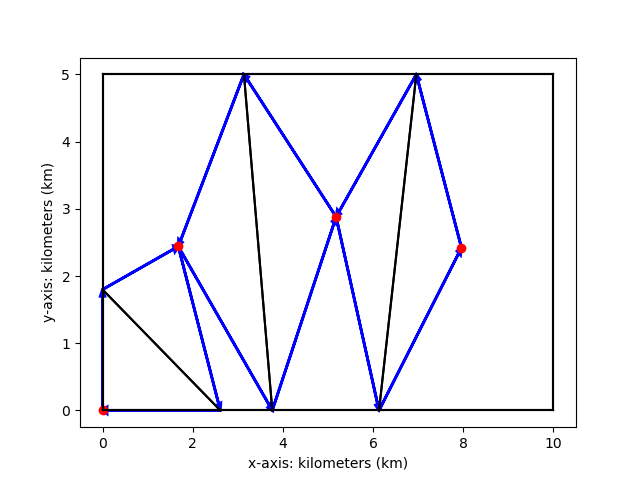
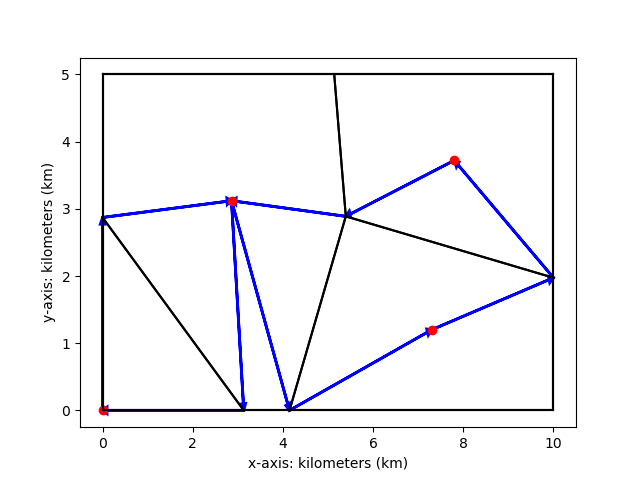
Tour Contruction
* Fixed the assembly of the tour.

diff --git a/Main/tourFn.py b/Main/tourFn.py
@@ -72,7 +72,7 @@ def finalPath(start, pathArr, singLvec, aMx):
             aMx[:,np.logical_not(singLvec)] = 0
             aMx[np.logical_not(singLvec),:] = 0
             
-            # SET THE INDECES FALSE 
+            # SET THE INDEx FALSE 
             singLvec[idx] = 0
         
         ###########################################  
@@ -90,39 +90,77 @@ def finalPath(start, pathArr, singLvec, aMx):
     else:
 
         
+        
+        # CONSTRUCT A SINGLETON MATRIX
+        sMx = np.copy(aMx)
+        sMx[np.ix_(np.logical_not(singLvec),np.logical_not(singLvec))] = 0
+        
+        
+        
         # GIVE THE CORRECT INDECES FOR THE PATH
-        path = np.arange(nCS)[np.logical_not(np.array(singLvec))][path[:-1]].tolist()
+        path = np.arange(nCS)[np.logical_not(np.array(singLvec))][path]
         
-        # ITERATE THROUGH EACH ROW
-        for i,(row,isSingle) in enumerate(zip(aMx,singLvec)):
+        result = np.copy(path)
+        
+        for k in path:
             
-            # CHECK IF ROW IS A SINGLETON
-            if( isSingle ):
-                
-                # GET THE INDEX OF THE VERTEX THAT CONNECTS TO THIS SINGLETON
-                next_idx = np.where(row == 1)[0][0]
-                
-                # GET THE INDEX OF THE VERTEX FROM THE PATH
-                idx = np.where(path == next_idx)[0][0]
-                
-                # INSERT THE VERTEX INDEX TO THE PATH WHERE THE VERTEX IS ALREADY FOUND
-                path.insert(idx, next_idx)
-                # INSERT THE SINGLETON INDEX INBETWEEN THE VERTEX INDECES 
-                path.insert(idx+1 , i)
-                
-                
-        result = path
-        
-        # MAKE SURE THAT THE FIRST ELEM IN THE PATH IS THE START CS ,
-        # WHICH SHOULD HAVE A VALUE OF 0
-        while not(result[0] == 0):
-            # REMOVE THE FIRST ELEMENT, ADD IT TO THE END
-            result.append(result.pop(0))
-        
-        # ADD THE FIRST ELEMENT TO THE END 
-        result.append(result[0])
+            i = k 
+            chain = np.array([])
             
+            row = sMx[i,:]
+            
+            # CHECK FOR LABELED SINGLETONS
+            while( not( sum(row) == 0 ) ):
+                
+                
+                idx = np.where(row == 1)[0][0]
 
+                chain = np.append(chain,idx)
+                
+                sMx[i,:] = 0
+                sMx[:,i] = 0
+                
+                i = idx
+                row = sMx[i,:]
+                
+                # IF THERE ARE NO MORE SINGLETONS
+                if( sum(row) == 0 ):
+                    
+                    # PATH HAS TWO CASES:
+                    # CASE I: THE FIRST ELEM IS ALSO AT THE END OF THE PATH
+                    # CASE II: THE OTHER ELEMS ONLY APPEAR ONCE
+                    # THUS, WE'LL TREAT THEM DIFFERENT
+                    
+                    
+                    p_idx = np.where(result == k)[0]
+                    
+                    # CASE I:THE FIRST ELEM IS ALSO AT THE END OF THE PATH
+                    if (len(p_idx) == 2):
+                        
+                        # USING THE FIRST MATCH
+                        # WE'LL ATTACH THE SINGLETONS TO THE LEFT
+                        # IN REVERSE
+                        
+                        
+                        result = np.insert( result , p_idx[0] ,chain[::-1] )
+                    
+                        # GET THE SECOND APPERANCE 
+                        p_idx = np.where(result == k)[0]
+                        result = np.insert( result , p_idx[-1] +1 ,chain )
+                        
+                    else:
+                        
+                        # CONTRUCT THE ARRAY THAT WE'LL BE INSERTING
+                        
+                        
+
+                        arr = np.append(chain,np.append(np.flipud(chain[:-1]),k))
+                        
+                        result = np.insert( result , p_idx[0] + 1 , arr)
+
+                        
+                        
+                    
 
     print(result)
 
@@ -443,15 +481,45 @@ if __name__ == '__main__':
     
     
 
-    adjMatrix = np.array([[0. ,0. ,0. ,1. ,0. ,1.],
-                          [0. ,0. ,1. ,1. ,1. ,0.],
-                          [0. ,1. ,0. ,0. ,1. ,0.],
-                          [1. ,1. ,0. ,0. ,1. ,1.],
-                          [0. ,1. ,1. ,1. ,0. ,1.],
-                          [1. ,0. ,0. ,1. ,1. ,0.]])
+    # adjMatrix = np.array([[0. ,0. ,0. ,1. ,0. ,1.],
+    #                       [0. ,0. ,1. ,1. ,1. ,0.],
+    #                       [0. ,1. ,0. ,0. ,1. ,0.],
+    #                       [1. ,1. ,0. ,0. ,1. ,1.],
+    #                       [0. ,1. ,1. ,1. ,0. ,1.],
+    #                       [1. ,0. ,0. ,1. ,1. ,0.]])
     
-    locs = np.array([[0.   ,8.02 ,8.36 ,3.6  ,5.54 ,1.8 ],
-                     [0.   ,1.   ,3.94 ,0.16 ,3.92 ,3.32]])    
+    # locs = np.array([[0.   ,8.02 ,8.36 ,3.6  ,5.54 ,1.8 ],
+    #                  [0.   ,1.   ,3.94 ,0.16 ,3.92 ,3.32]])    
+    
+    
+    
+    
+    
+    ### CHAINED ENTRY SINGLETONS
+    
+    # adjMatrix = np.array([ [0,1,0,0,0],
+    #                        [1,0,1,0,0],
+    #                        [0,1,0,1,1],
+    #                        [0,0,1,0,1],
+    #                        [0,0,1,1,0]])
+    
+    # locs = np.array([[0,1,2,3,3],
+    #                  [0,0,0,1,-1]])
+    
+    ### CHAINED COMPLEX SINGLETONS
+    
+    
+    adjMatrix = np.array([[0,1,0,0,0,0,0,0],
+                          [1,0,1,0,0,0,0,0],
+                          [0,1,0,1,0,1,0,0],
+                          [0,0,1,0,1,1,0,0],
+                          [0,0,0,1,0,0,0,0],
+                          [0,0,1,1,0,0,1,0],
+                          [0,0,0,0,0,1,0,1],
+                          [0,0,0,0,0,0,1,0]])
+    
+    locs = np.array([[0,1,2,3,4,3,4,5],
+                     [0,0,0,1,2,-1,-2,-3]])
     
     
     

diff --git a/Main/PaperCode.py b/Main/PaperCode.py
@@ -367,7 +367,7 @@ if __name__ == '__main__':
         #field_boundary =  [ [0,0] , [0,3] , [4,5] , [8,3] , [8,0]]
 
         
-        CS_radius = 2.5
+        CS_radius = 3.5
         
     
         lst = run_program(drone, CS_radius , field_boundary, 50 , np.array([0, 0]) )
